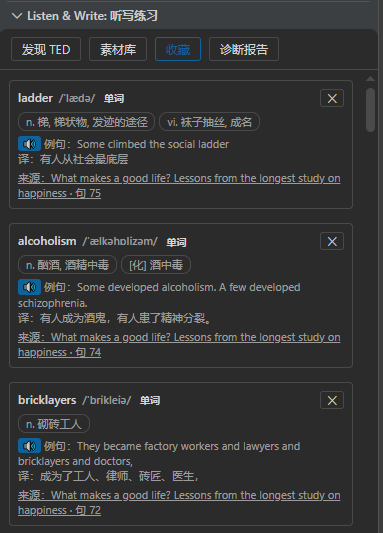
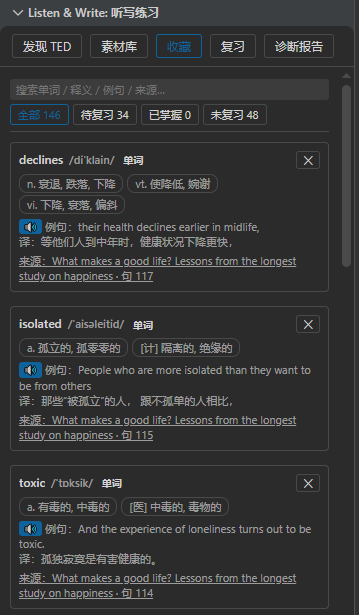
fix: 素材库样式误伤收藏视图（横排/省略号只对 .lib-mat 生效）
根因：素材库卡片的 display:flex 与 .meta 的 nowrap+ellipsis 直接写在共用的 .lib-card 上，而收藏视图的卡片同样是 .lib-card，于是收藏卡被压成一坨、例句译文被截断。

改法：.lib-card 恢复为共用盒子样式（逐字还原），素材库专属版式（横排 / 难度竖条 / 已学完降透明度 / stale 黄框 / 单行省略）全部迁到新类 .lib-mat，卡片 markup 改为 lib-card lib-mat。补 3 条回归断言：.lib-card 不得含 display:flex、横排必须在 .lib-mat、nowrap 只能写在 .lib-mat .meta。

diff --git a/src/webview/panel.ts b/src/webview/panel.ts
@@ -2414,35 +2414,46 @@ export class PracticePanel {
   .lib-filters button { padding: 2px 7px; font-size: 11px; }
   .lib-filters button.on { color: var(--accent); border-color: var(--accent); }
 
-  /* ---- 素材卡片 ----
-   * 左侧 3px 竖条 = 难度（未评级不显示），已学完整卡降一档透明度、悬停恢复。 */
+  /* ---- 卡片盒子：【素材库与收藏视图共用】 ----
+   * ⚠ 这里只放两者都需要的盒子样式，**不要加 display:flex**。
+   *    收藏视图的卡片也是 .lib-card，内部是「标题 + 若干 .meta」的竖排块；
+   *    一旦把 .lib-card 变成 flex 容器，那些块会变成并排的 flex 子项，
+   *    整张卡被压成一坨（0.1.5 真实事故）。
+   *    素材库那套「横排 + 难度竖条」一律挂在 .lib-mat 上。 */
   .lib-card {
-    position: relative; display: flex; gap: 8px; align-items: flex-start;
-    padding: 8px 8px 8px 10px; margin-bottom: 6px;
-    border: 1px solid var(--border); border-left: 3px solid transparent;
-    border-radius: 4px; cursor: pointer;
+    padding: 8px; margin-bottom: 6px;
+    border: 1px solid var(--border); border-radius: 4px; cursor: pointer;
   }
   .lib-card:hover { border-color: var(--accent); }
-  .lib-card[data-diff="easy"] { border-left-color: var(--ok); }
-  .lib-card[data-diff="medium"] { border-left-color: var(--warn); }
-  .lib-card[data-diff="hard"] { border-left-color: var(--err); }
-  .lib-card.learned { opacity: .68; }
-  .lib-card.learned:hover { opacity: 1; }
-  /* 被自己改动而不再符合当前筛选：先留在原地并标黄，下次换条件才移出 */
-  .lib-card.stale { box-shadow: inset 0 0 0 1px var(--warn); }
-  .lib-card.stale .lib-stale { color: var(--warn); }
-  .lib-body { flex: 1 1 auto; min-width: 0; }
   .lib-card .t {
     font-weight: 600; font-size: 12px; line-height: 1.35;
     display: -webkit-box; -webkit-line-clamp: 2;
     -webkit-box-orient: vertical; overflow: hidden;
   }
-  /* 信息行：名字 · 句数 · 时长 · 加入时间，必须同一行 —— 窄了省略，不折行 */
-  .lib-card .meta {
-    margin-top: 3px; color: var(--muted); font-size: 11px;
-    padding: 0; border: none;
+  .lib-card .meta { margin-top: 4px; color: var(--muted); font-size: 11px; padding: 0; border: none; }
+
+  /* ---- 素材库卡片（.lib-mat）：横排 + 左侧难度竖条 ----
+   * 左侧 3px 竖条 = 难度（未评级不显示），已学完整卡降一档透明度、悬停恢复。 */
+  .lib-mat {
+    position: relative; display: flex; gap: 8px; align-items: flex-start;
+    padding: 8px 8px 8px 10px;
+    border-left: 3px solid transparent;
+  }
+  .lib-mat[data-diff="easy"] { border-left-color: var(--ok); }
+  .lib-mat[data-diff="medium"] { border-left-color: var(--warn); }
+  .lib-mat[data-diff="hard"] { border-left-color: var(--err); }
+  .lib-mat.learned { opacity: .68; }
+  .lib-mat.learned:hover { opacity: 1; }
+  /* 被自己改动而不再符合当前筛选：先留在原地并标黄，下次换条件才移出 */
+  .lib-mat.stale { box-shadow: inset 0 0 0 1px var(--warn); }
+  .lib-mat.stale .lib-stale { color: var(--warn); }
+  /* 信息行：名字 · 句数 · 时长 · 加入时间，必须同一行 —— 窄了省略，不折行
+     （只对素材库生效：收藏视图的 .meta 里是例句译文，截断就看不全了） */
+  .lib-mat .meta {
+    margin-top: 3px;
     white-space: nowrap; overflow: hidden; text-overflow: ellipsis;
   }
+  .lib-body { flex: 1 1 auto; min-width: 0; }
   /* 徽标单独一行（音频就绪 / 难度 / 已学完） */
   .lib-tags { display: flex; flex-wrap: wrap; gap: 4px; align-items: center; margin-top: 4px; }
   .badge {
@@ -2533,11 +2544,9 @@ export class PracticePanel {
   .t-row button { flex: 0 0 auto; padding: 2px 6px; font-size: 11px; line-height: 1.5; }
   .t-lbl { min-width: 26px; color: var(--muted); font-size: 11px; }
   .t-mark { color: var(--accent); font-size: 10px; margin-left: 4px; }
-  /* 多选选中态：只画上右下三条边，左侧留给难度竖条 */
-  .lib-card.selected {
-    border-top-color: var(--accent); border-right-color: var(--accent);
-    border-bottom-color: var(--accent); background: rgba(128,128,128,.08);
-  }
+  .lib-card.selected { border-color: var(--accent); background: rgba(128,128,128,.08); }
+  /* 卡片内的竖排块要能收缩：否则长标题会把卡片撑出容器（原规则，勿删） */
+  .lib-card > div { flex: 1 1 auto; min-width: 0; }
   /* 「⋯」更多操作：删除等破坏性入口收进菜单，卡片左侧留给多选标记 */
   .lib-more {
     flex: 0 0 auto; padding: 0 6px; line-height: 20px;
@@ -4656,7 +4665,7 @@ function renderLib() {
     metaBits.push(it.sentenceCount + ' 句');
     metaBits.push(fmtTime(it.durationMs));
     metaBits.push('加入 ' + fmtDate(it.addedAt));
-    return '<div class="lib-card' + (libState.selected[it.dirName] ? ' selected' : '') +
+    return '<div class="lib-card lib-mat' + (libState.selected[it.dirName] ? ' selected' : '') +
         (it.learned ? ' learned' : '') + (stale ? ' stale' : '') +
         '" data-dirname="' + esc(it.dirName) + '" data-diff="' + esc(diff) + '">' +
       lead +

diff --git a/src/test/testWebviewHtml.ts b/src/test/testWebviewHtml.ts
@@ -1423,16 +1423,38 @@ check(
 // 卡片版式（用户明确要求）：信息行 = 名字 · 句数 · 时长 · 加入时间，且必须一行；
 // 三个徽标另起一行。混在一起时窄面板会把日期挤到第二行，看起来像两块信息。
 check(
-  'panel.ts: 卡片信息行顺序 = 名字 → 句数 → 时长 → 加入时间（锁死单行）',
+  'panel.ts: 卡片信息行顺序 = 名字 → 句数 → 时长 → 加入时间（单行）',
   /if \(it\.presenter\) metaBits\.push[\s\S]{0,200}'加入 ' \+ fmtDate\(it\.addedAt\)/.test(panelCode) &&
     /metaBits\.join\(' · '\)/.test(panelCode) &&
-    /\.lib-card \.meta \{[\s\S]{0,180}white-space: nowrap/.test(panelCode),
+    /\.lib-mat \.meta \{[\s\S]{0,180}white-space: nowrap/.test(panelCode),
   '信息行顺序不对，或没有锁死单行（窄了就折行）'
 );
 check(
   'panel.ts: 三个徽标单独一行（不与信息行混排）',
   /class="lib-tags"/.test(panelCode) && /\.lib-tags \{[\s\S]{0,140}flex-wrap: wrap/.test(panelCode),
   '徽标混进信息行会把日期挤到第二行'
+);
+/* ⚠ 回归防护（0.1.5 真实事故）：收藏视图的卡片同样是 .lib-card。
+ * 把「横排 + 省略」这套素材库专属样式直接写在 .lib-card 上，
+ * 收藏卡里的每个 .meta 就变成了并排的 flex 子项 —— 整张卡被压成一坨，
+ * 例句/译文全被 ellipsis 截断。素材库样式必须挂在 .lib-mat 上。 */
+check(
+  'panel.ts: .lib-card 不带 display:flex（收藏视图共用，加了就压成一坨）',
+  /\.lib-card \{[^}]*display:\s*flex/.test(panelCode) === false,
+  '把横排版式写到了共用的 .lib-card 上，收藏视图会被一起改坏'
+);
+check(
+  'panel.ts: 素材库卡片用 .lib-mat 承载横排与难度竖条',
+  /\.lib-mat \{[^}]*display:\s*flex/.test(panelCode) &&
+    /class="lib-card lib-mat/.test(panelCode) &&
+    /\.lib-mat\[data-diff="easy"\]/.test(panelCode),
+  '素材库没走 .lib-mat，收藏视图的样式就会被牵连'
+);
+check(
+  'panel.ts: 收藏视图的 .meta 不被锁成单行（例句译文要能折行）',
+  /\.lib-mat \.meta \{/.test(panelCode) &&
+    !/\.lib-card \.meta \{[^}]*nowrap/.test(panelCode),
+  '把 nowrap 写在共用的 .lib-card .meta 上，收藏卡片的译文会被截断'
 );
 
 /* ---------- 结果 ---------- */
